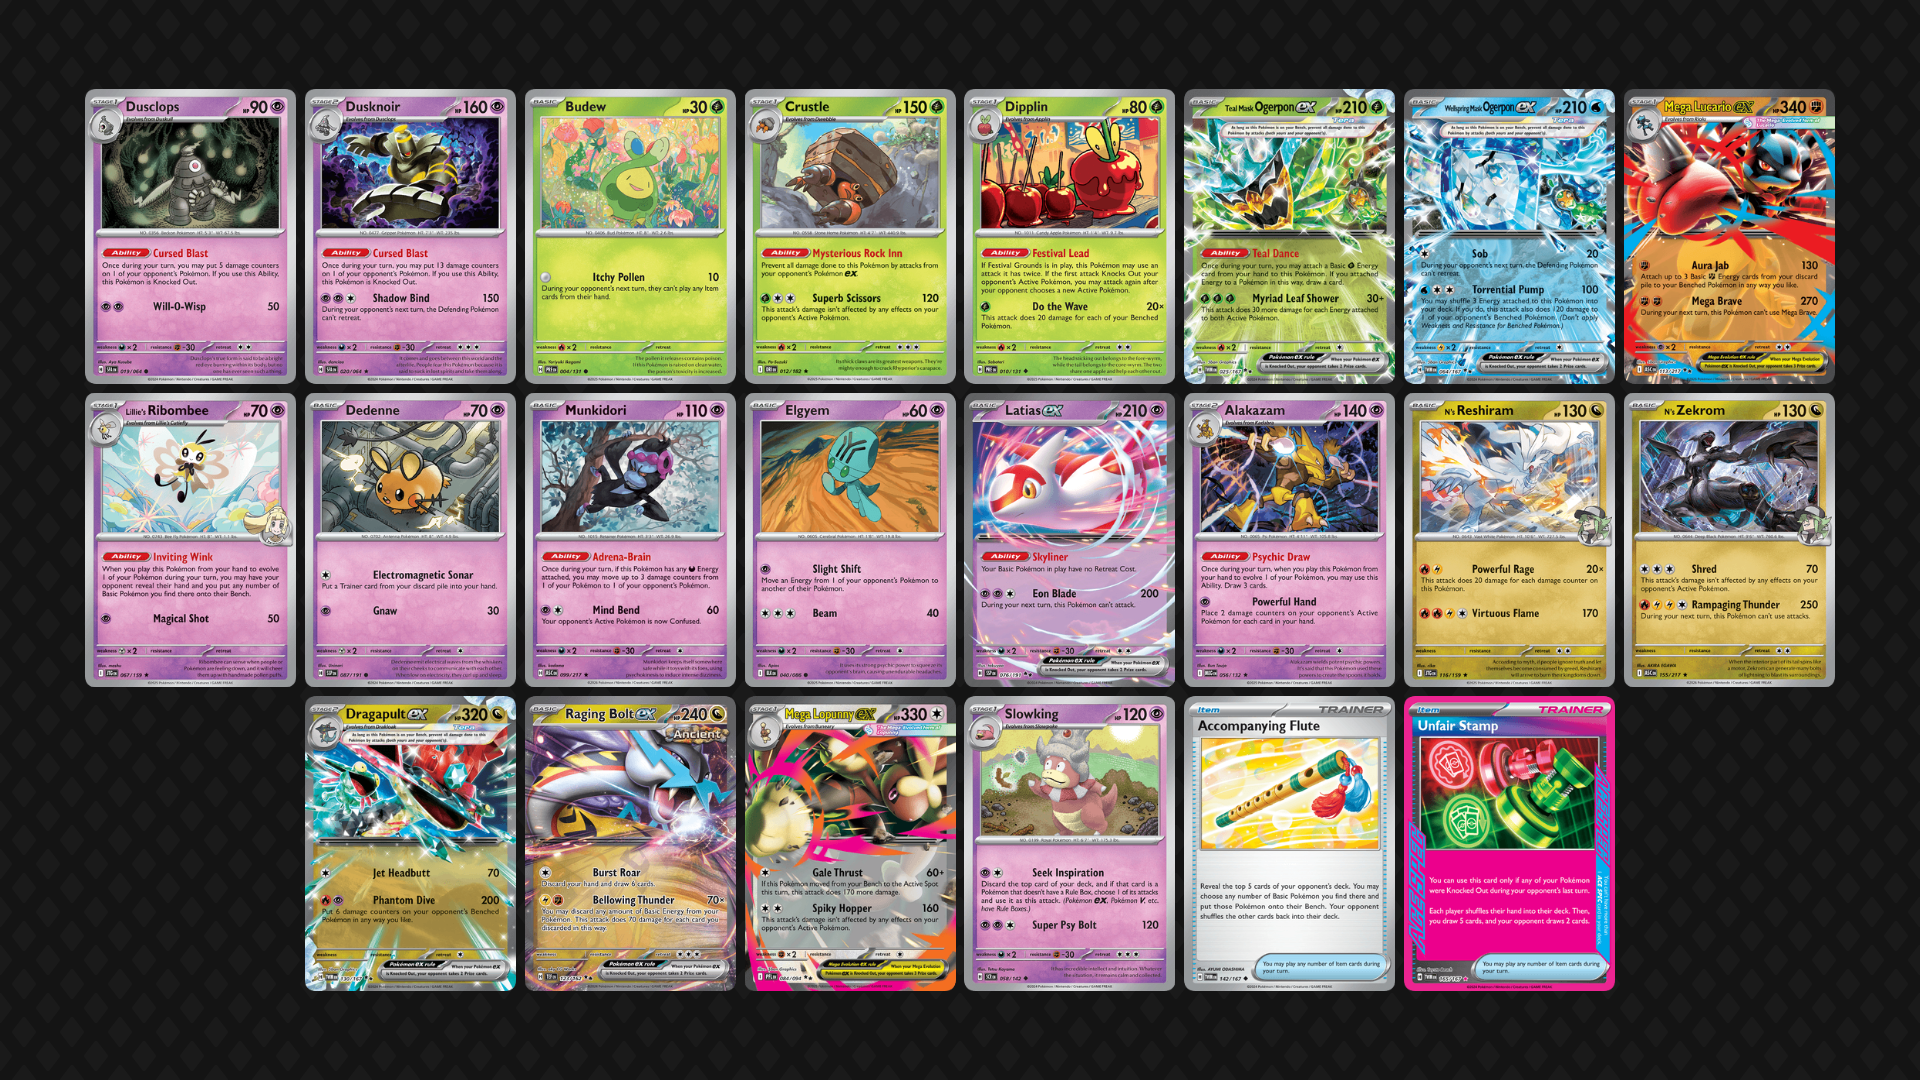
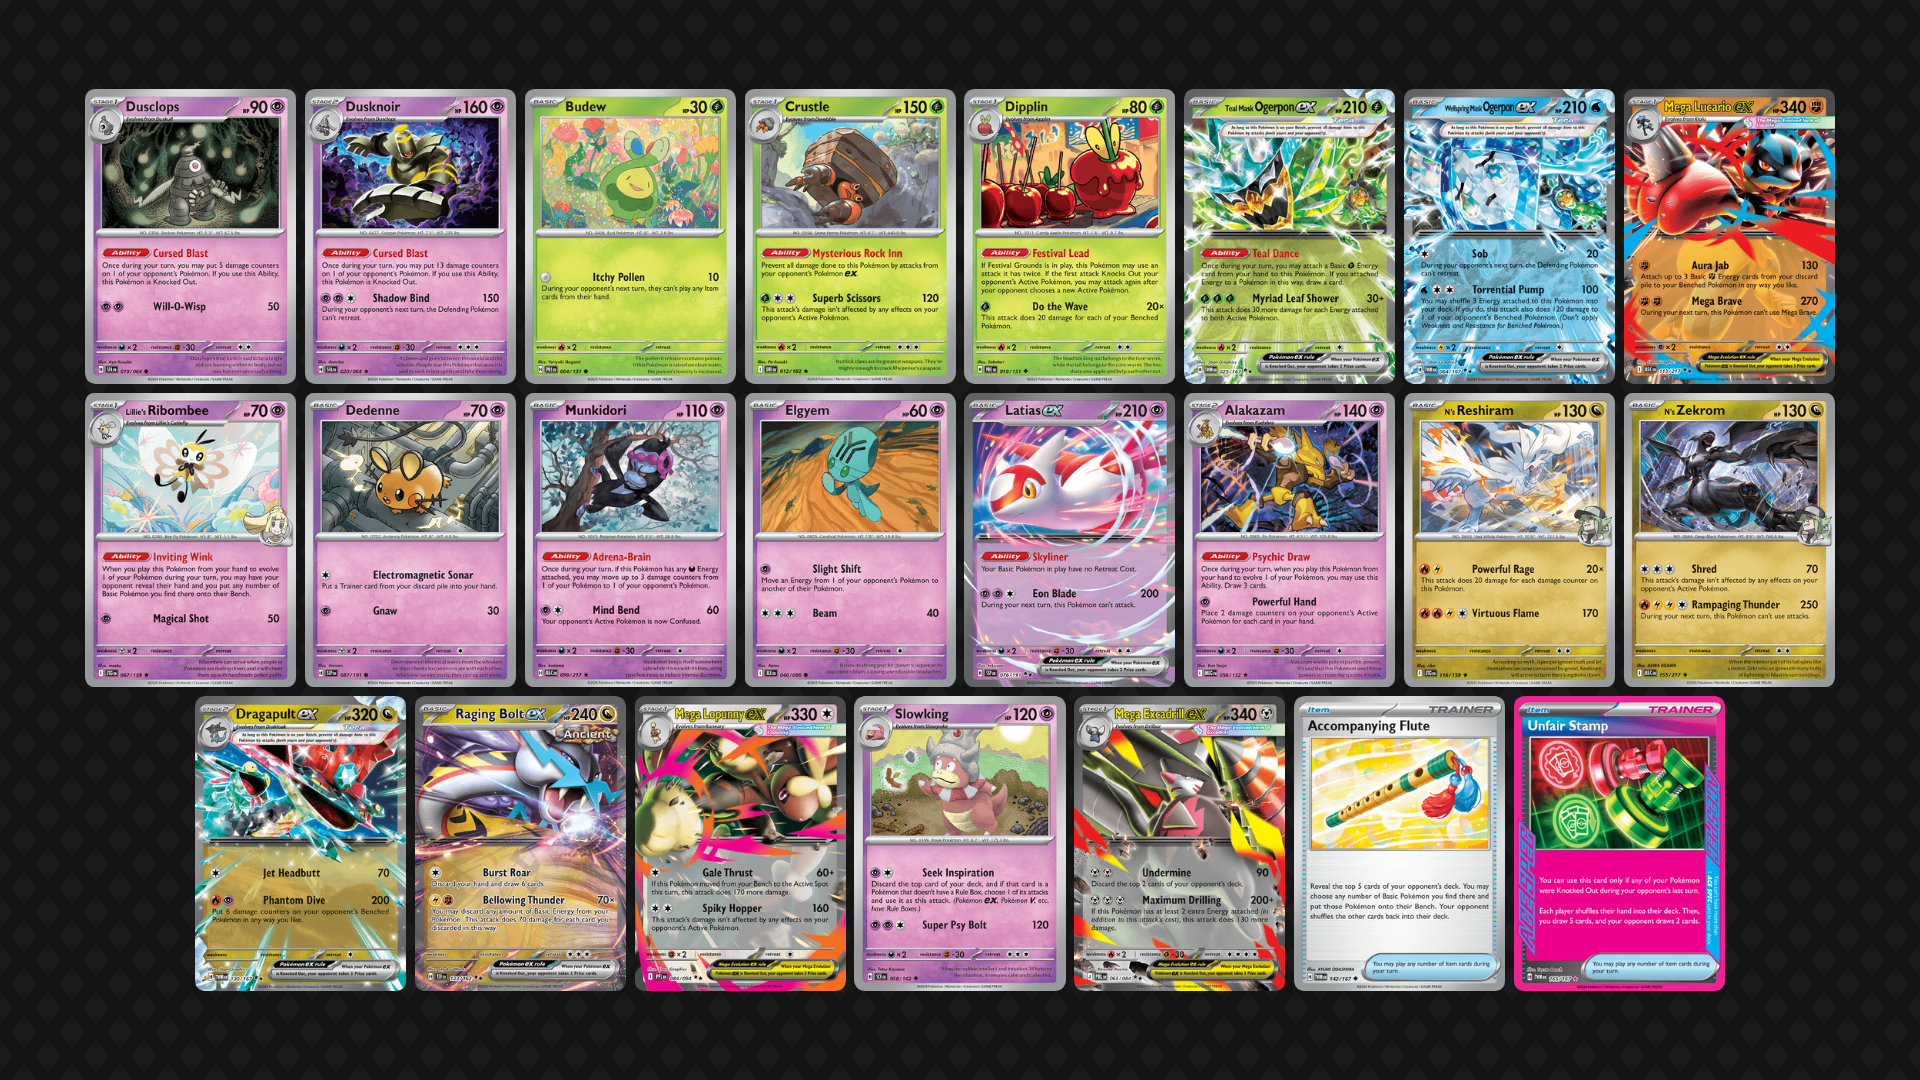
Updated Advanced Format ban list

Changed region(s): [[0.0938, 0.6417, 0.9062, 0.9167]]

diff --git a/banlist/banlist.js b/banlist/banlist.js
@@ -1,30 +1,57 @@
-var pokemon = ["Dusclops SFA 19",
-    "Dusknoir SFA 20",
-    "Budew PRE 4",
-    "Crustle DRI 12",
-    "Dipplin PRE 10",
-    "Teal Mask Ogerpon ex TWM 25",
-    "Wellspring Mask Ogerpon ex TWM 64",
-    "Mega Lucario ex ASC 113",
-    "Lillie's Ribombee JTG 67",
-    "Dedenne SSP 87",
-    "Munkidori ASC 99",
-    "Elgyem BLK 40",
-    "Latias ex SSP 76",
-    "Alakazam MEG 56",
-    "N's Reshiram JTG 116",
-    "N's Zekrom ASC 155",
-    "Dragapult ex TWM 130",
-    "Raging Bolt ex TEF 123",
-    "Mega Lopunny ex PFL 84",
-    "Slowking SCR 58",
-    "Accompanying Flute TWM 142",
-    "Unfair Stamp TWM 165"];
+var pokemon = ["1 Dusclops SFA 19",
+    "1 Dusknoir SFA 20",
+    "1 Budew PRE 4",
+    "1 Crustle DRI 12",
+    "1 Dipplin PRE 10",
+    "1 Teal Mask Ogerpon ex TWM 25",
+    "1 Wellspring Mask Ogerpon ex TWM 64",
+    "1 Mega Lucario ex ASC 113",
+    "1 Lillie's Ribombee JTG 67",
+    "1 Dedenne SSP 87",
+    "1 Munkidori ASC 99",
+    "1 Elgyem BLK 40",
+    "1 Latias ex SSP 76",
+    "1 Alakazam MEG 56",
+    "1 N's Reshiram JTG 116",
+    "1 N's Zekrom ASC 155",
+    "1 Dragapult ex TWM 130",
+    "1 Raging Bolt ex TEF 123",
+    "1 Mega Lopunny ex PFL 84",
+    "1 Slowking SCR 58",
+    "1 Mega Excadrill ex PBL 65",
+    "1 Accompanying Flute TWM 142",
+    "1 Unfair Stamp TWM 165"];
 
 var banlistString = "";
 
-for (var i = 0; i < pokemon.length; i++){
+for (var i = 0; i < pokemon.length; i++) {
     banlistString = banlistString + "<li>" + pokemon[i] + "</li>";
 }
 
 document.querySelector(".banlist ul").innerHTML = banlistString;
+
+/**
+"1 Dusclops SFA 19",
+"1 Dusknoir SFA 20",
+"1 Budew PRE 4",
+"1 Crustle DRI 12",
+"1 Dipplin PRE 10",
+"1 Teal Mask Ogerpon ex TWM 25",
+"1 Wellspring Mask Ogerpon ex TWM 64",
+"1 Mega Lucario ex ASC 113",
+"1 Lillie's Ribombee JTG 67",
+"1 Dedenne SSP 87",
+"1 Munkidori ASC 99",
+"1 Elgyem BLK 40",
+"1 Latias ex SSP 76",
+"1 Alakazam MEG 56",
+"1 N's Reshiram JTG 116",
+"1 N's Zekrom ASC 155",
+"1 Dragapult ex TWM 130",
+"1 Raging Bolt ex TEF 123",
+"1 Mega Lopunny ex PFL 84",
+"1 Slowking SCR 58",
+"1 Mega Excadrill ex PBL 65",
+"1 Accompanying Flute TWM 142",
+"1 Unfair Stamp TWM 165"
+ */
